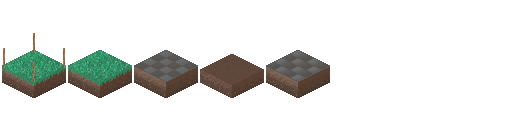
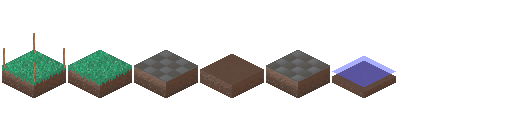
E

Changed region(s): [[0.625, 0.4375, 0.7812, 0.7812]]

diff --git a/LibGDX/core/src/dev/codewizz/world/World.java b/LibGDX/core/src/dev/codewizz/world/World.java
@@ -18,6 +18,7 @@ import dev.codewizz.world.objects.Cow;
 import dev.codewizz.world.objects.Herd;
 import dev.codewizz.world.objects.Tree;
 import dev.codewizz.world.pathfinding.CellGraph;
+import dev.codewizz.world.tiles.WaterTile;
 
 public class World {
 
@@ -30,7 +31,8 @@ public class World {
 	
 	public CellGraph cellGraph;
 	
-	public WNoise noise = new WNoise(0);
+	public WNoise noise = new WNoise();
+	public WNoise terrainNoise = new WNoise();
 	
 	public World() {
 		grid = new Cell[WORLD_SIZE_W][WORLD_SIZE_H];
@@ -69,8 +71,26 @@ public class World {
 	
 		this.objects.addAll(herd.getMembers());
 
-		
+		spawnRivers();
 		spawnTree();
+	}
+	
+	private void spawnRivers() {
+		for (int i = 0; i < grid.length; i++) {
+			for (int j = 0; j < grid[i].length; j++) {
+				Cell cell = grid[i][j];
+				
+				float e = 5f;
+				float n = (float) terrainNoise.noise(i * e, j * e);
+				
+				float d = Math.abs((n*2)-1);
+				
+				if(d > -0.1f && d < 0.5f) {
+					cell.setTile(new WaterTile(cell));
+				}
+				
+			}
+		}
 	}
 	
 	private void spawnTree() {
@@ -78,11 +98,13 @@ public class World {
 			for (int j = 0; j < grid[i].length; j++) {
 				Cell cell = grid[i][j];
 				
-				float e = 5f;
-				float n = (float) noise.noise(i * e, j * e);
-				
-				if(n > 0.4f) {
-					this.objects.add(new Tree(cell.x, cell.y));
+				if(cell.tile.getType() == TileType.Base) {
+					float e = 5f;
+					float n = (float) noise.noise(i * e, j * e);
+					
+					if(n > 0.4f) {
+						cell.tile.addObject(new Tree(cell.x, cell.y));
+					}
 				}
 				
 			}
@@ -98,7 +120,12 @@ public class World {
 		
 		if(!Main.PAUSED) {
 			if(MouseInput.hoveringOverCell != null) {
-				b.draw(Assets.getSprite("tile-highlight"), MouseInput.hoveringOverCell.x, MouseInput.hoveringOverCell.y);
+				if(MouseInput.clear) {
+					b.draw(Assets.getSprite("tile-highlight"), MouseInput.hoveringOverCell.x, MouseInput.hoveringOverCell.y);
+				} else {
+					b.draw(Assets.getSprite("tile-highlight-red"), MouseInput.hoveringOverCell.x, MouseInput.hoveringOverCell.y);
+				}
+				
 				
 				/*
 				 * 

diff --git a/libGDX/core/src/dev/codewizz/input/MouseInput.java b/libGDX/core/src/dev/codewizz/input/MouseInput.java
@@ -7,16 +7,19 @@ import com.badlogic.gdx.math.Vector3;
 import dev.codewizz.main.Camera;
 import dev.codewizz.main.Main;
 import dev.codewizz.world.Cell;
+import dev.codewizz.world.GameObject;
 import dev.codewizz.world.Tile;
 import dev.codewizz.world.TileType;
+import dev.codewizz.world.objects.ID;
 
 public class MouseInput implements InputProcessor {
 	
 	public static boolean[] dragging = new boolean[5];
 	public static Vector3 coords = new Vector3();
 	public static Cell hoveringOverCell;
-	public static TileType currentlyDrawingType = TileType.Tiled;
+	public static TileType currentlyDrawingType = TileType.Water;
 	public static AreaSelector area = new AreaSelector();
+	public static boolean clear = false;
 	
 	public void update(float d) {
 		if(Main.PLAYING && !Main.PAUSED) {
@@ -28,6 +31,19 @@ public class MouseInput implements InputProcessor {
 				for(int j = 0; j < grid[i].length; j++) {
 					if(grid[i][j].tile.getHitbox().contains(coords.x, coords.y)) {
 						hoveringOverCell = grid[i][j];
+						clear = true;
+						
+						Tile tile = grid[i][j].tile;
+						
+						if(tile.getType() == currentlyDrawingType || tile.getType() == TileType.Empty) {
+							clear = false;
+						}
+						
+						for(GameObject object : tile.getObjects()) {
+							if(object.getID() == ID.Tree) {
+								clear = false;
+							}
+						}
 					}
 				}
 			}
@@ -35,7 +51,10 @@ public class MouseInput implements InputProcessor {
 			
 			if(dragging[0]) {
 				if(hoveringOverCell != null) {
-					hoveringOverCell.setTile(Tile.getTileFromType(currentlyDrawingType, hoveringOverCell));
+					Tile tile = Tile.getTileFromType(currentlyDrawingType, hoveringOverCell);
+					
+					
+					hoveringOverCell.setTile(tile);
 					if(Main.DEBUG) {
 						Cell.printDebugInfo(hoveringOverCell);
 					}

diff --git a/LibGDX/core/src/dev/codewizz/world/GameObject.java b/LibGDX/core/src/dev/codewizz/world/GameObject.java
@@ -4,10 +4,13 @@ import java.awt.Rectangle;
 
 import com.badlogic.gdx.graphics.g2d.SpriteBatch;
 
+import dev.codewizz.world.objects.ID;
+
 public abstract class GameObject implements Comparable<GameObject> {
 
 	protected float x, y;
 	protected int w, h;
+	protected ID id;
 	
 	public GameObject(float x, float y) {
 		this.x = x;
@@ -56,6 +59,14 @@ public abstract class GameObject implements Comparable<GameObject> {
 
 	public void setH(int h) {
 		this.h = h;
+	}
+	
+	public ID getID() {
+		return id;
+	}
+	
+	public void setID(ID id) {
+		this.id = id;
 	}
 	
 	public int compareTo(GameObject other) {

diff --git a/LibGDX/core/src/dev/codewizz/world/tiles/WaterTile.java b/LibGDX/core/src/dev/codewizz/world/tiles/WaterTile.java
@@ -5,15 +5,15 @@ import dev.codewizz.world.Cell;
 import dev.codewizz.world.Tile;
 import dev.codewizz.world.TileType;
 
-public class BaseTile extends Tile {
+public class WaterTile extends Tile {
 
-	public BaseTile(Cell cell) {
+	public WaterTile(Cell cell) {
 		super(cell);
 
-		this.name = "Base Tile";
-		this.texture = Assets.getSprite("base-tile");
-		this.type = TileType.Base;
-		this.cost = 5;
+		this.type = TileType.Water;
+		this.texture = Assets.getSprite("water-tile");
+		this.name = "Water";
+		this.cost = -1;
 	}
 
 }

diff --git a/LibGDX/core/src/dev/codewizz/world/Tile.java b/LibGDX/core/src/dev/codewizz/world/Tile.java
@@ -15,6 +15,7 @@ import dev.codewizz.world.tiles.DirtPathTile;
 import dev.codewizz.world.tiles.DirtTile;
 import dev.codewizz.world.tiles.EmptyTile;
 import dev.codewizz.world.tiles.TiledTile;
+import dev.codewizz.world.tiles.WaterTile;
 
 public abstract class Tile {
 	
@@ -129,6 +130,8 @@ public abstract class Tile {
 			return new DirtPathTile(cell);
 		} else if(type == TileType.Tiled) {
 			return new TiledTile(cell);
+		} else if(type == TileType.Water) {
+			return new WaterTile(cell);
 		}
 		
 		return null;

diff --git a/LibGDX/core/src/dev/codewizz/world/Cell.java b/LibGDX/core/src/dev/codewizz/world/Cell.java
@@ -13,6 +13,7 @@ import dev.codewizz.utils.Direction;
 import dev.codewizz.world.pathfinding.CellGraph;
 import dev.codewizz.world.pathfinding.Link;
 import dev.codewizz.world.tiles.BaseTile;
+import dev.codewizz.world.tiles.WaterTile;
 
 public class Cell {
 
@@ -29,11 +30,9 @@ public class Cell {
 		this.indexX = indexX;
 		this.indexY = indexY;
 		this.tile = new BaseTile(this);
-
 		this.odd = odd;
 		this.world = world;
 		
-		Animation ani;
 	}
 	
 	public void init(CellGraph graph) {

diff --git a/LibGDX/core/src/dev/codewizz/utils/Assets.java b/LibGDX/core/src/dev/codewizz/utils/Assets.java
@@ -30,6 +30,7 @@ public class Assets {
 		atlasses.put("paths", new TextureAtlas());
 
 		sprites.put("base-tile", atlasses.get("tiles").createSprite("base-tile"));
+		sprites.put("water-tile", atlasses.get("tiles").createSprite("water-tile"));
 		sprites.put("dirt-path-tile", atlasses.get("tiles").createSprite("dirt-path-tile"));
 		sprites.put("dirt-tile", atlasses.get("tiles").createSprite("dirt-tile"));
 		sprites.put("empty-tile", atlasses.get("tiles").createSprite("empty-tile"));

diff --git a/libGDX/core/src/dev/codewizz/world/objects/Tree.java b/libGDX/core/src/dev/codewizz/world/objects/Tree.java
@@ -13,6 +13,10 @@ public class Tree extends GameObject {
 	public Tree(float x, float y) {
 		super(x, y);
 
+		this.x += 5;
+		this.y += 30;
+		
+		this.id = ID.Tree;
 	}
 
 	@Override

diff --git a/LibGDX/core/src/dev/codewizz/world/objects/Hermit.java b/LibGDX/core/src/dev/codewizz/world/objects/Hermit.java
@@ -14,6 +14,8 @@ public class Hermit extends TaskableObject {
 	public Hermit(float x, float y) {
 		super(x, y);
 
+		this.id = ID.Hermit;
+		
 		this.w = 32;
 		this.h = 32;
 	}

diff --git a/LibGDX/core/src/dev/codewizz/world/objects/Cow.java b/LibGDX/core/src/dev/codewizz/world/objects/Cow.java
@@ -18,6 +18,8 @@ public class Cow extends Animal {
 	public Cow(float x, float y) {
 		super(x, y);
 		
+		this.id = ID.Cow;
+		
 		speed = 10f;
 	}
 	

diff --git a/LibGDX/core/src/dev/codewizz/world/objects/ID.java b/LibGDX/core/src/dev/codewizz/world/objects/ID.java
@@ -1,0 +1,8 @@
+package dev.codewizz.world.objects;
+
+public enum ID {
+
+	Cow(),
+	Hermit(),
+	Tree();
+}

diff --git a/libGDX/core/src/dev/codewizz/world/TileType.java b/libGDX/core/src/dev/codewizz/world/TileType.java
@@ -7,5 +7,6 @@ public enum TileType {
 	Stone(),
 	Tiled(),
 	DirtPath(),
+	Water(),
 	Dirt();
 }
